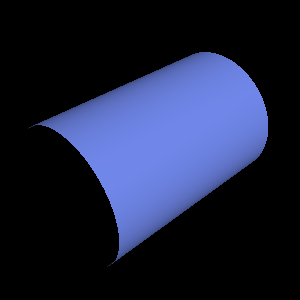
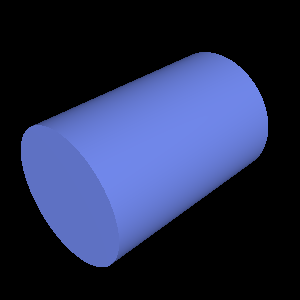
Committed working cylinders

Changed region(s): [[0.06, 0.42, 0.42, 0.9]]

diff --git a/ray/surface/Cylinder.java b/ray/surface/Cylinder.java
@@ -71,12 +71,19 @@ public class Cylinder extends Surface {
 
 			double t = 0.0;
 
+			double tc0 = ((c.z+(H/2))-p.z)/d.z;
+			double tc1 = ((c.z+(H/2))-p.z)/d.z;
 			Point3 q0 = new Point3();
 			Point3 q1 = new Point3();
-
+			Point3 qc0 = new Point3();
+			Point3 qc1 = new Point3();
+			
 			rayIn.evaluate(q0, t0);
 			rayIn.evaluate(q1, t1);
-
+			rayIn.evaluate(qc0, tc0);
+			rayIn.evaluate(qc1, tc1);
+			boolean a0 = Math.pow(qc0.x+c.x, 2)+Math.pow(qc0.y+c.y, 2)<=Math.pow(radius, 2);
+			boolean a1 = Math.pow(qc1.x-c.x, 2)+Math.pow(qc1.y-c.y, 2)<=Math.pow(radius, 2);
 			if ((q0.z >= c.z - H / 2 && q0.z <= c.z + H / 2)
 					&& (q1.z >= c.z - H / 2 && q1.z <= c.z + H / 2)) {
 				if (t0 < t1) {
@@ -86,6 +93,10 @@ public class Cylinder extends Surface {
 					// System.out.println("both t1");
 					t = t1;
 				}
+			} else if (a0&&tc0<t0&&tc0<t1) {
+				t=tc0;
+			} else if (a1&&tc1<t0&&tc1<t1) {
+				t=tc1;
 			} else if ((q0.z >= c.z - H / 2 && q0.z <= c.z + H / 2)
 					&& !(q1.z >= c.z - H / 2 & q1.z <= c.z + H / 2)) {
 				// System.out.println("only t0");
@@ -93,7 +104,7 @@ public class Cylinder extends Surface {
 			} else if (!(q0.z >= c.z - H / 2 && q0.z <= c.z + H / 2)
 					&& (q1.z >= c.z - H / 2 && q1.z <= c.z + H / 2)) {
 				// System.out.println("only t1");
-				t = t1;
+				t=t1;
 			} else {
 				// System.out.println("none");
 				return false;
@@ -106,10 +117,15 @@ public class Cylinder extends Surface {
 			outRecord.location.set(q);
 			outRecord.surface = this;
 			outRecord.t = t;
-
-			outRecord.normal.set(new Vector3(q.x-c.x, q.y-c.y, 0));
+			if(a0) {
+				outRecord.normal.set(new Vector3(0,0,1));
+			} else if(a1) {
+				outRecord.normal.set(new Vector3(0,0,-1));
+			} else {
+				outRecord.normal.set(new Vector3(q.x-c.x, q.y-c.y, 0));
+				outRecord.normal.scale(-1);
+			}
 			outRecord.normal.normalize();
-			outRecord.normal.scale(-1);
 
 			return true;
 		}

diff --git a/ray/shader/Shader.java b/ray/shader/Shader.java
@@ -53,6 +53,7 @@ public abstract class Shader {
 		Vector3 lV = new Vector3();
 		lV.sub(light.position, record.location);
 		lV.normalize();
+<<<<<<< HEAD
 		// comment out the next line for negative shadows.  possible progress?
 		lV.scale(-1);
 
@@ -60,6 +61,12 @@ public abstract class Shader {
 
 		r.start = Ray.EPSILON;
 		r.end = Double.POSITIVE_INFINITY;
+=======
+		Ray r = new Ray(p,lV);
+		r.start=Ray.EPSILON;
+		r.start=.001;
+		r.end=Double.POSITIVE_INFINITY;
+>>>>>>> Committed working cylinders
 		r.makeOffsetRay();
 
 		IntersectionRecord tmp = new IntersectionRecord();
